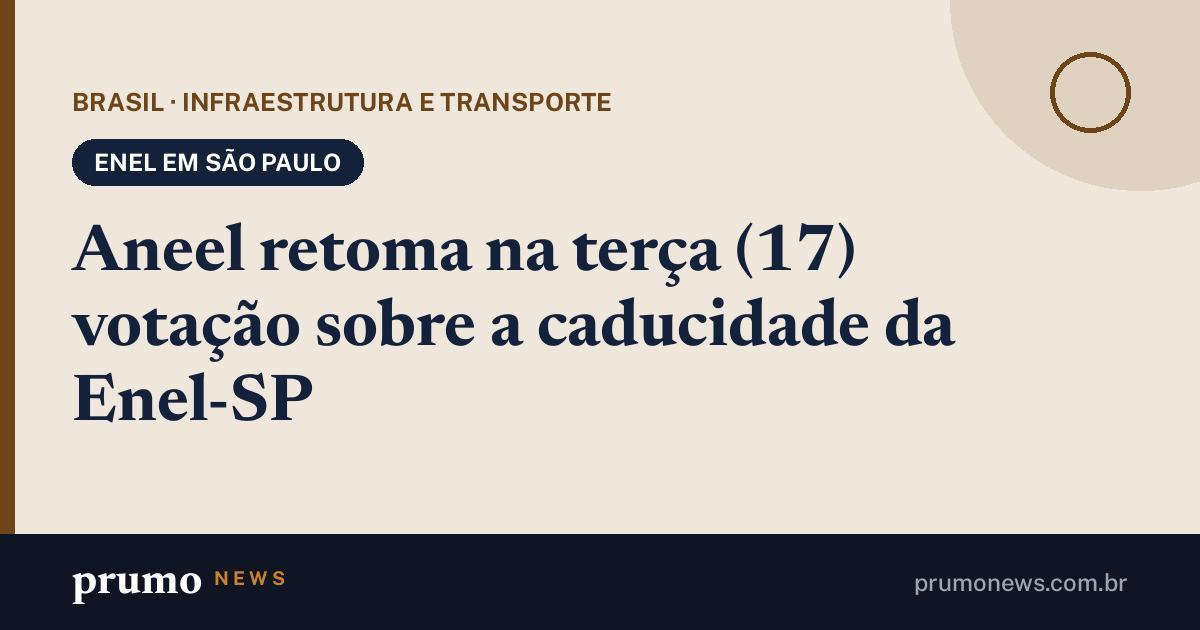
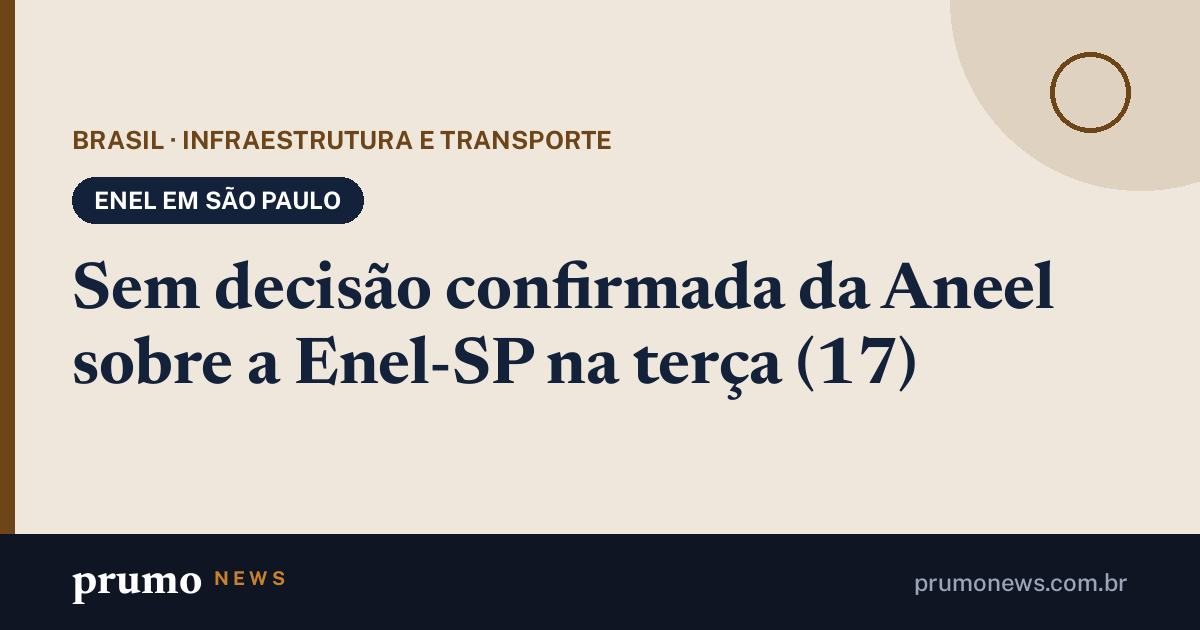
Páginas de compartilhamento 17/11 21h50

Changed region(s): [[0.0617, 0.1206, 0.8942, 0.6937]]

diff --git a/m/selecao-brasil-japao-amistoso-singapura.html b/m/selecao-brasil-japao-amistoso-singapura.html
@@ -3,16 +3,16 @@
 <head>
 <meta charset="utf-8">
 <meta name="viewport" content="width=device-width, initial-scale=1">
-<title>Seleção enfrenta Singapura na terça (17), após perder do Japão · Prumo News</title>
-<meta name="description" content="O jogo no Estádio Nacional de Singapura fecha a Data Fifa; o Brasil vem de derrota por 3 a 2 para o Japão, com 2 gols de Vini Jr.">
-<link rel="canonical" href="https://prumonews.com.br/m/selecao-enfrenta-singapura-na-terca-17-apos-perder-do-japao.html">
+<title>Placar de Brasil x Singapura não foi confirmado; Seleção perdeu do Japão · Prumo News</title>
+<meta name="description" content="O jogo no Estádio Nacional de Singapura fechava a Data Fifa; o Brasil vinha de derrota por 3 a 2 para o Japão, com 2 gols de Vini Jr.">
+<link rel="canonical" href="https://prumonews.com.br/m/placar-de-brasil-x-singapura-nao-foi-confirmado-selecao-perdeu-do.html">
 <meta property="og:type" content="article">
 <meta property="og:site_name" content="Prumo News">
 <meta property="og:locale" content="pt_BR">
-<meta property="og:title" content="Seleção enfrenta Singapura na terça (17), após perder do Japão">
-<meta property="og:description" content="O jogo no Estádio Nacional de Singapura fecha a Data Fifa; o Brasil vem de derrota por 3 a 2 para o Japão, com 2 gols de Vini Jr.">
-<meta property="og:url" content="https://prumonews.com.br/m/selecao-enfrenta-singapura-na-terca-17-apos-perder-do-japao.html">
-<meta property="og:image" content="https://prumonews.com.br/m/og/selecao-brasil-japao-amistoso-singapura.jpg?v=5b3b62b3c9">
+<meta property="og:title" content="Placar de Brasil x Singapura não foi confirmado; Seleção perdeu do Japão">
+<meta property="og:description" content="O jogo no Estádio Nacional de Singapura fechava a Data Fifa; o Brasil vinha de derrota por 3 a 2 para o Japão, com 2 gols de Vini Jr.">
+<meta property="og:url" content="https://prumonews.com.br/m/placar-de-brasil-x-singapura-nao-foi-confirmado-selecao-perdeu-do.html">
+<meta property="og:image" content="https://prumonews.com.br/m/og/selecao-brasil-japao-amistoso-singapura.jpg?v=86582cd3c2">
 <meta property="og:image:width" content="1200">
 <meta property="og:image:height" content="630">
 <meta name="twitter:card" content="summary_large_image">
@@ -20,5 +20,5 @@
 <script>location.replace("/#m=selecao-brasil-japao-amistoso-singapura")</script>
 <style>body{margin:0;font:16px/1.5 system-ui,sans-serif;background:#0f1522;color:#e8ecf2;display:grid;place-items:center;min-height:100vh;padding:24px;box-sizing:border-box;text-align:center}a{color:#e6b673}</style>
 </head>
-<body><p><a href="/#m=selecao-brasil-japao-amistoso-singapura">Seleção enfrenta Singapura na terça (17), após perder do Japão</a><br>Abrindo no Prumo News…</p></body>
+<body><p><a href="/#m=selecao-brasil-japao-amistoso-singapura">Placar de Brasil x Singapura não foi confirmado; Seleção perdeu do Japão</a><br>Abrindo no Prumo News…</p></body>
 </html>

diff --git a/m/pl-mercados-digitais.html b/m/pl-mercados-digitais.html
@@ -3,20 +3,20 @@
 <head>
 <meta charset="utf-8">
 <meta name="viewport" content="width=device-width, initial-scale=1">
-<title>Relator negocia com o centro para votar o PL das big techs na terça (17) · Prumo News</title>
-<meta name="description" content="Plataformas com faturamento acima de R$ 5 bi no Brasil ou R$ 50 bi no mundo ficam sujeitas a regras do Cade; o relator ajusta o texto para ganhar votos do centro.">
-<link rel="canonical" href="https://prumonews.com.br/m/relator-negocia-com-o-centro-para-votar-o-pl-das-big-techs-na-terca-17.html">
+<title>Sem votação confirmada do PL das big techs na Câmara na terça (17) · Prumo News</title>
+<meta name="description" content="Plataformas com faturamento acima de R$ 5 bi no Brasil ou R$ 50 bi no mundo ficam sujeitas a regras do Cade; o resultado da votação não foi confirmado.">
+<link rel="canonical" href="https://prumonews.com.br/m/sem-votacao-confirmada-do-pl-das-big-techs-na-camara-na-terca-17.html">
 <meta property="og:type" content="article">
 <meta property="og:site_name" content="Prumo News">
 <meta property="og:locale" content="pt_BR">
-<meta property="og:title" content="Relator negocia com o centro para votar o PL das big techs na terça (17)">
-<meta property="og:description" content="Plataformas com faturamento acima de R$ 5 bi no Brasil ou R$ 50 bi no mundo ficam sujeitas a regras do Cade; o relator ajusta o texto para ganhar votos do centro.">
-<meta property="og:url" content="https://prumonews.com.br/m/relator-negocia-com-o-centro-para-votar-o-pl-das-big-techs-na-terca-17.html">
+<meta property="og:title" content="Sem votação confirmada do PL das big techs na Câmara na terça (17)">
+<meta property="og:description" content="Plataformas com faturamento acima de R$ 5 bi no Brasil ou R$ 50 bi no mundo ficam sujeitas a regras do Cade; o resultado da votação não foi confirmado.">
+<meta property="og:url" content="https://prumonews.com.br/m/sem-votacao-confirmada-do-pl-das-big-techs-na-camara-na-terca-17.html">
 <meta property="og:image" content="https://upload.wikimedia.org/wikipedia/commons/thumb/c/c5/Congresso_Nacional_-_50495144217.jpg/960px-Congresso_Nacional_-_50495144217.jpg">
 <meta name="twitter:card" content="summary_large_image">
 <meta name="theme-color" content="#0f1522">
 <script>location.replace("/#m=pl-mercados-digitais")</script>
 <style>body{margin:0;font:16px/1.5 system-ui,sans-serif;background:#0f1522;color:#e8ecf2;display:grid;place-items:center;min-height:100vh;padding:24px;box-sizing:border-box;text-align:center}a{color:#e6b673}</style>
 </head>
-<body><p><a href="/#m=pl-mercados-digitais">Relator negocia com o centro para votar o PL das big techs na terça (17)</a><br>Abrindo no Prumo News…</p></body>
+<body><p><a href="/#m=pl-mercados-digitais">Sem votação confirmada do PL das big techs na Câmara na terça (17)</a><br>Abrindo no Prumo News…</p></body>
 </html>

diff --git a/m/enel-sp-aneel-caducidade.html b/m/enel-sp-aneel-caducidade.html
@@ -3,16 +3,16 @@
 <head>
 <meta charset="utf-8">
 <meta name="viewport" content="width=device-width, initial-scale=1">
-<title>Aneel retoma na terça (17) votação sobre a caducidade da Enel-SP · Prumo News</title>
+<title>Sem decisão confirmada da Aneel sobre a Enel-SP na terça (17) · Prumo News</title>
 <meta name="description" content="A Enel atende cerca de 8,5 milhões de unidades consumidoras na capital e em 23 municípios; o ministério decide depois da Aneel.">
-<link rel="canonical" href="https://prumonews.com.br/m/aneel-retoma-na-terca-17-votacao-sobre-a-caducidade-da-enel-sp.html">
+<link rel="canonical" href="https://prumonews.com.br/m/sem-decisao-confirmada-da-aneel-sobre-a-enel-sp-na-terca-17.html">
 <meta property="og:type" content="article">
 <meta property="og:site_name" content="Prumo News">
 <meta property="og:locale" content="pt_BR">
-<meta property="og:title" content="Aneel retoma na terça (17) votação sobre a caducidade da Enel-SP">
+<meta property="og:title" content="Sem decisão confirmada da Aneel sobre a Enel-SP na terça (17)">
 <meta property="og:description" content="A Enel atende cerca de 8,5 milhões de unidades consumidoras na capital e em 23 municípios; o ministério decide depois da Aneel.">
-<meta property="og:url" content="https://prumonews.com.br/m/aneel-retoma-na-terca-17-votacao-sobre-a-caducidade-da-enel-sp.html">
-<meta property="og:image" content="https://prumonews.com.br/m/og/enel-sp-aneel-caducidade.jpg?v=e3e0597ab4">
+<meta property="og:url" content="https://prumonews.com.br/m/sem-decisao-confirmada-da-aneel-sobre-a-enel-sp-na-terca-17.html">
+<meta property="og:image" content="https://prumonews.com.br/m/og/enel-sp-aneel-caducidade.jpg?v=d8d794cd5d">
 <meta property="og:image:width" content="1200">
 <meta property="og:image:height" content="630">
 <meta name="twitter:card" content="summary_large_image">
@@ -20,5 +20,5 @@
 <script>location.replace("/#m=enel-sp-aneel-caducidade")</script>
 <style>body{margin:0;font:16px/1.5 system-ui,sans-serif;background:#0f1522;color:#e8ecf2;display:grid;place-items:center;min-height:100vh;padding:24px;box-sizing:border-box;text-align:center}a{color:#e6b673}</style>
 </head>
-<body><p><a href="/#m=enel-sp-aneel-caducidade">Aneel retoma na terça (17) votação sobre a caducidade da Enel-SP</a><br>Abrindo no Prumo News…</p></body>
+<body><p><a href="/#m=enel-sp-aneel-caducidade">Sem decisão confirmada da Aneel sobre a Enel-SP na terça (17)</a><br>Abrindo no Prumo News…</p></body>
 </html>

diff --git a/m/placar-de-brasil-x-singapura-nao-foi-confirmado-selecao-perdeu-do.html b/m/placar-de-brasil-x-singapura-nao-foi-confirmado-selecao-perdeu-do.html
@@ -1,0 +1,24 @@
+<!doctype html>
+<html lang="pt-BR">
+<head>
+<meta charset="utf-8">
+<meta name="viewport" content="width=device-width, initial-scale=1">
+<title>Placar de Brasil x Singapura não foi confirmado; Seleção perdeu do Japão · Prumo News</title>
+<meta name="description" content="O jogo no Estádio Nacional de Singapura fechava a Data Fifa; o Brasil vinha de derrota por 3 a 2 para o Japão, com 2 gols de Vini Jr.">
+<link rel="canonical" href="https://prumonews.com.br/m/placar-de-brasil-x-singapura-nao-foi-confirmado-selecao-perdeu-do.html">
+<meta property="og:type" content="article">
+<meta property="og:site_name" content="Prumo News">
+<meta property="og:locale" content="pt_BR">
+<meta property="og:title" content="Placar de Brasil x Singapura não foi confirmado; Seleção perdeu do Japão">
+<meta property="og:description" content="O jogo no Estádio Nacional de Singapura fechava a Data Fifa; o Brasil vinha de derrota por 3 a 2 para o Japão, com 2 gols de Vini Jr.">
+<meta property="og:url" content="https://prumonews.com.br/m/placar-de-brasil-x-singapura-nao-foi-confirmado-selecao-perdeu-do.html">
+<meta property="og:image" content="https://prumonews.com.br/m/og/selecao-brasil-japao-amistoso-singapura.jpg?v=86582cd3c2">
+<meta property="og:image:width" content="1200">
+<meta property="og:image:height" content="630">
+<meta name="twitter:card" content="summary_large_image">
+<meta name="theme-color" content="#0f1522">
+<script>location.replace("/#m=selecao-brasil-japao-amistoso-singapura")</script>
+<style>body{margin:0;font:16px/1.5 system-ui,sans-serif;background:#0f1522;color:#e8ecf2;display:grid;place-items:center;min-height:100vh;padding:24px;box-sizing:border-box;text-align:center}a{color:#e6b673}</style>
+</head>
+<body><p><a href="/#m=selecao-brasil-japao-amistoso-singapura">Placar de Brasil x Singapura não foi confirmado; Seleção perdeu do Japão</a><br>Abrindo no Prumo News…</p></body>
+</html>

diff --git a/m/sem-votacao-confirmada-do-pl-das-big-techs-na-camara-na-terca-17.html b/m/sem-votacao-confirmada-do-pl-das-big-techs-na-camara-na-terca-17.html
@@ -1,0 +1,22 @@
+<!doctype html>
+<html lang="pt-BR">
+<head>
+<meta charset="utf-8">
+<meta name="viewport" content="width=device-width, initial-scale=1">
+<title>Sem votação confirmada do PL das big techs na Câmara na terça (17) · Prumo News</title>
+<meta name="description" content="Plataformas com faturamento acima de R$ 5 bi no Brasil ou R$ 50 bi no mundo ficam sujeitas a regras do Cade; o resultado da votação não foi confirmado.">
+<link rel="canonical" href="https://prumonews.com.br/m/sem-votacao-confirmada-do-pl-das-big-techs-na-camara-na-terca-17.html">
+<meta property="og:type" content="article">
+<meta property="og:site_name" content="Prumo News">
+<meta property="og:locale" content="pt_BR">
+<meta property="og:title" content="Sem votação confirmada do PL das big techs na Câmara na terça (17)">
+<meta property="og:description" content="Plataformas com faturamento acima de R$ 5 bi no Brasil ou R$ 50 bi no mundo ficam sujeitas a regras do Cade; o resultado da votação não foi confirmado.">
+<meta property="og:url" content="https://prumonews.com.br/m/sem-votacao-confirmada-do-pl-das-big-techs-na-camara-na-terca-17.html">
+<meta property="og:image" content="https://upload.wikimedia.org/wikipedia/commons/thumb/c/c5/Congresso_Nacional_-_50495144217.jpg/960px-Congresso_Nacional_-_50495144217.jpg">
+<meta name="twitter:card" content="summary_large_image">
+<meta name="theme-color" content="#0f1522">
+<script>location.replace("/#m=pl-mercados-digitais")</script>
+<style>body{margin:0;font:16px/1.5 system-ui,sans-serif;background:#0f1522;color:#e8ecf2;display:grid;place-items:center;min-height:100vh;padding:24px;box-sizing:border-box;text-align:center}a{color:#e6b673}</style>
+</head>
+<body><p><a href="/#m=pl-mercados-digitais">Sem votação confirmada do PL das big techs na Câmara na terça (17)</a><br>Abrindo no Prumo News…</p></body>
+</html>

diff --git a/m/sem-decisao-confirmada-da-aneel-sobre-a-enel-sp-na-terca-17.html b/m/sem-decisao-confirmada-da-aneel-sobre-a-enel-sp-na-terca-17.html
@@ -1,0 +1,24 @@
+<!doctype html>
+<html lang="pt-BR">
+<head>
+<meta charset="utf-8">
+<meta name="viewport" content="width=device-width, initial-scale=1">
+<title>Sem decisão confirmada da Aneel sobre a Enel-SP na terça (17) · Prumo News</title>
+<meta name="description" content="A Enel atende cerca de 8,5 milhões de unidades consumidoras na capital e em 23 municípios; o ministério decide depois da Aneel.">
+<link rel="canonical" href="https://prumonews.com.br/m/sem-decisao-confirmada-da-aneel-sobre-a-enel-sp-na-terca-17.html">
+<meta property="og:type" content="article">
+<meta property="og:site_name" content="Prumo News">
+<meta property="og:locale" content="pt_BR">
+<meta property="og:title" content="Sem decisão confirmada da Aneel sobre a Enel-SP na terça (17)">
+<meta property="og:description" content="A Enel atende cerca de 8,5 milhões de unidades consumidoras na capital e em 23 municípios; o ministério decide depois da Aneel.">
+<meta property="og:url" content="https://prumonews.com.br/m/sem-decisao-confirmada-da-aneel-sobre-a-enel-sp-na-terca-17.html">
+<meta property="og:image" content="https://prumonews.com.br/m/og/enel-sp-aneel-caducidade.jpg?v=d8d794cd5d">
+<meta property="og:image:width" content="1200">
+<meta property="og:image:height" content="630">
+<meta name="twitter:card" content="summary_large_image">
+<meta name="theme-color" content="#0f1522">
+<script>location.replace("/#m=enel-sp-aneel-caducidade")</script>
+<style>body{margin:0;font:16px/1.5 system-ui,sans-serif;background:#0f1522;color:#e8ecf2;display:grid;place-items:center;min-height:100vh;padding:24px;box-sizing:border-box;text-align:center}a{color:#e6b673}</style>
+</head>
+<body><p><a href="/#m=enel-sp-aneel-caducidade">Sem decisão confirmada da Aneel sobre a Enel-SP na terça (17)</a><br>Abrindo no Prumo News…</p></body>
+</html>
